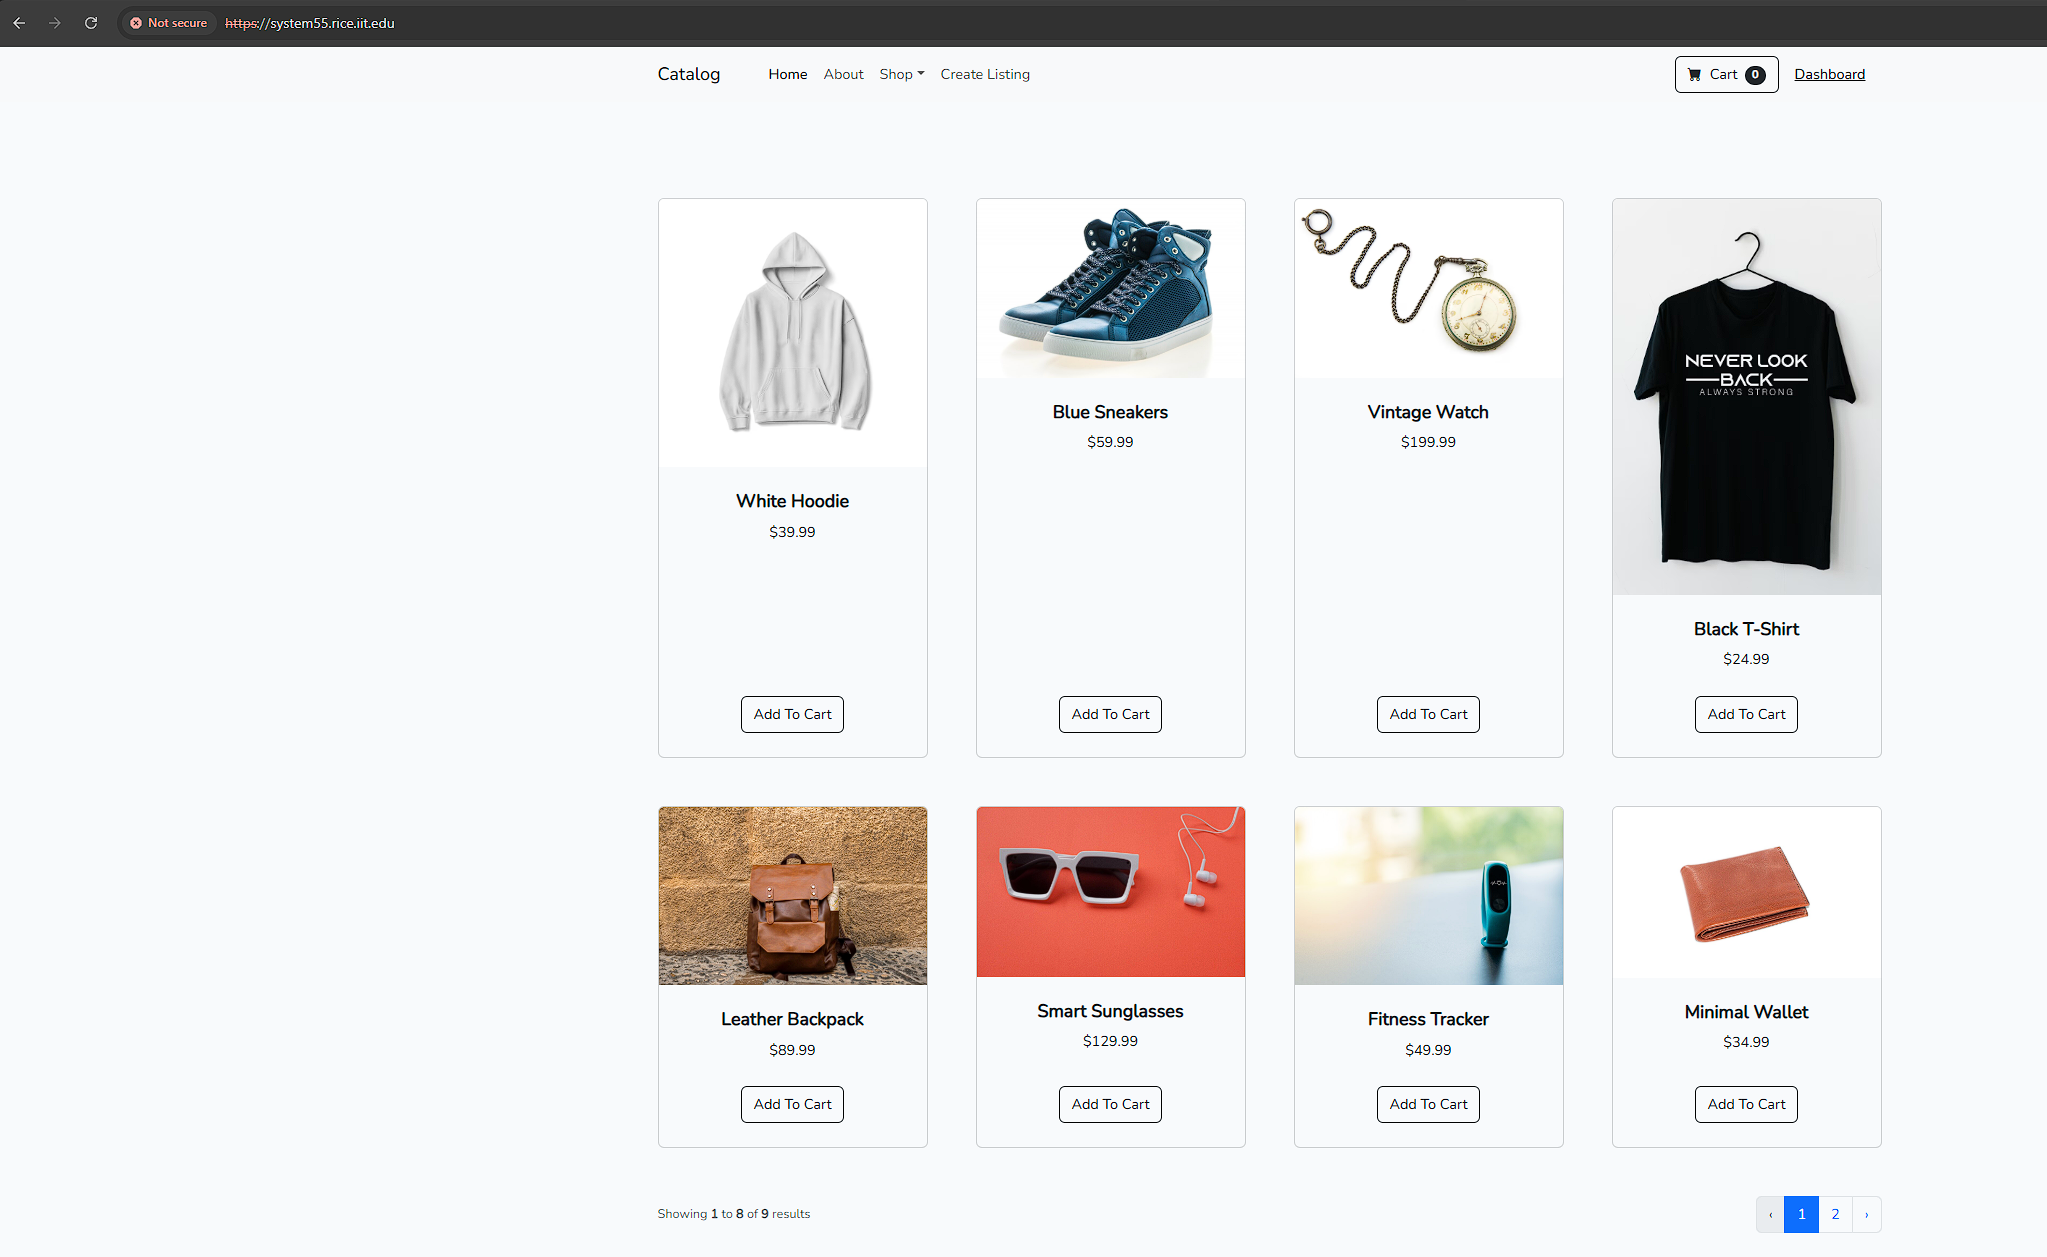
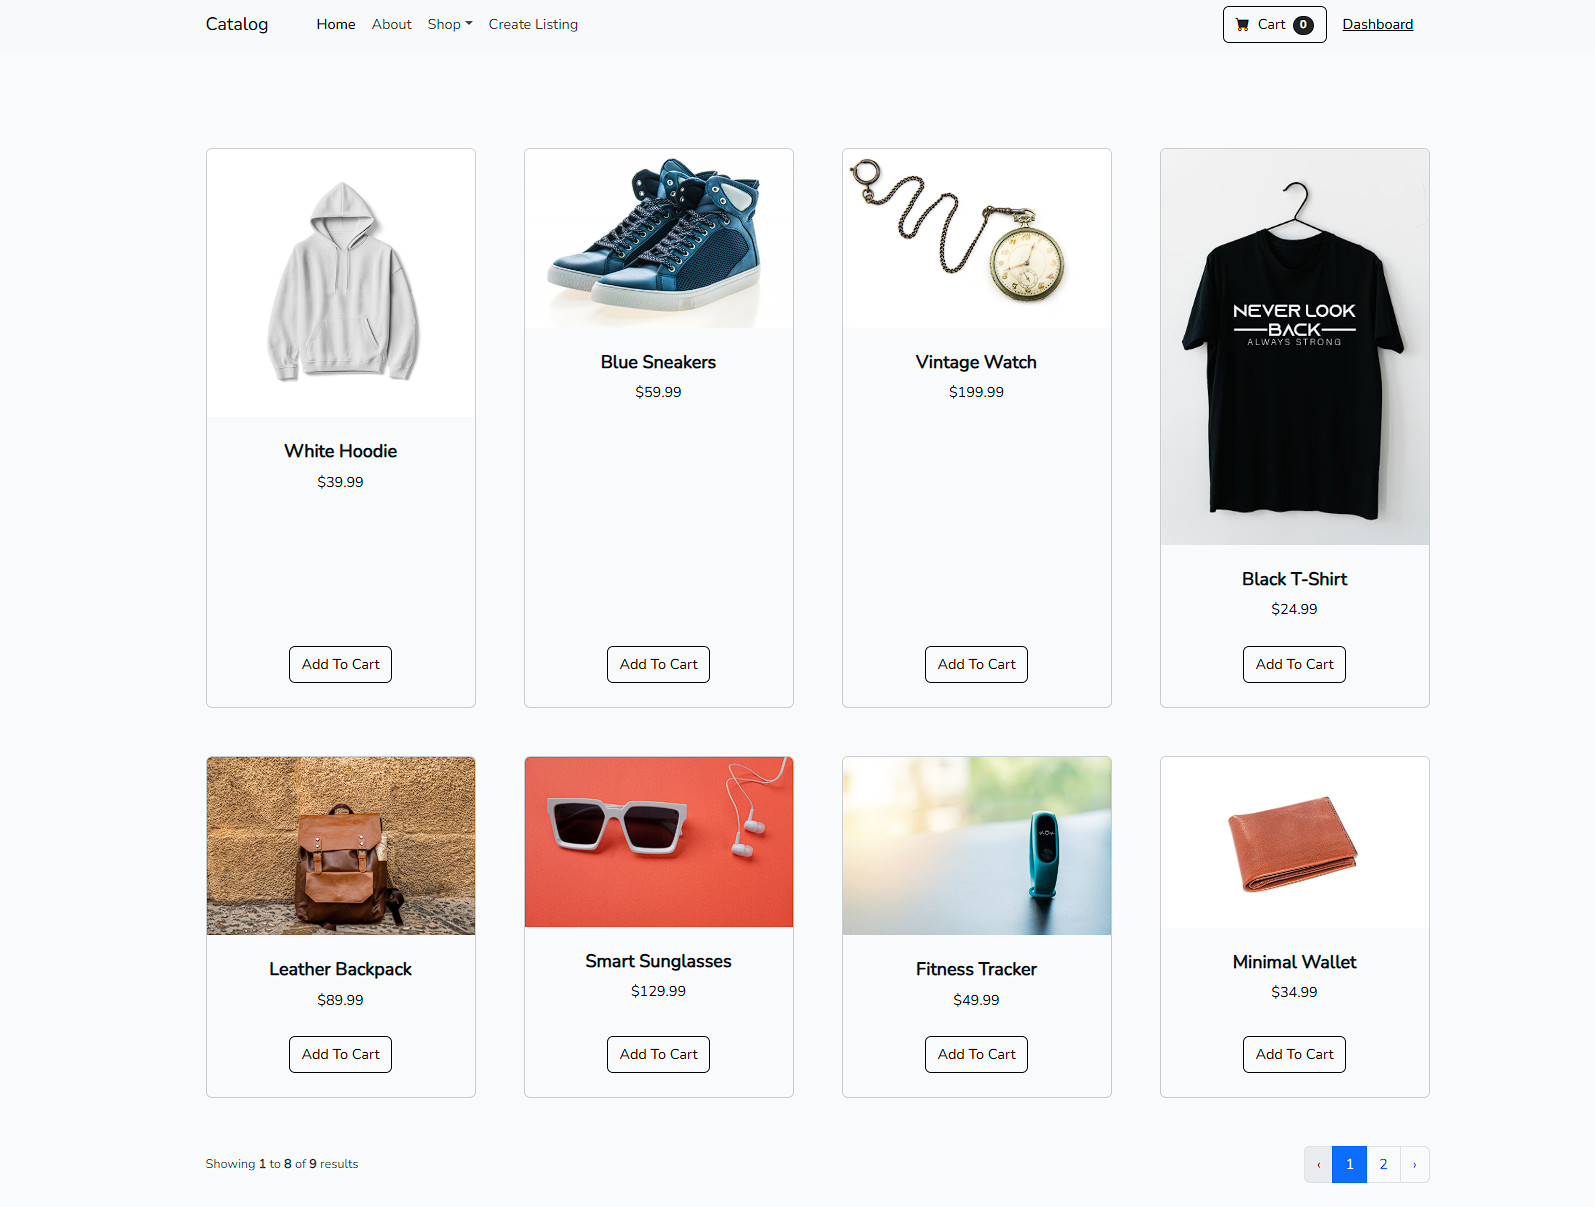
added images of swoop project to projects section of resume.

diff --git a/index.html b/index.html
@@ -27,14 +27,14 @@
     <section class="summary">
       <h2>Summary</h2>
       <p>I am an aspiring system administrator/DevOps engineer with
-      an interest in linux systems and cloud infrastructure. I have
-      experience with a wide variety of linux systems and I have
-      both deployed and built applications on them. Some of my interests 
-      include system administration, developer operations, and network
-      administration. I also have both knowledge and experience when it
-      comes to designing and implementing computer networks with 
-      multiple VLANS and subnets and can quickly and efficently plan out
-      and document an entire network. 
+         an interest in linux systems and cloud infrastructure. I have
+         experience with a wide variety of linux systems and I have
+         both deployed and built applications on them. Some of my interests 
+         include system administration, developer operations, and network
+         administration. I also have both knowledge and experience when it
+         comes to designing and implementing computer networks with 
+         multiple VLANS and subnets and can quickly and efficently plan out
+         and document an entire network. 
       </p>
     </section>
     <section class="education">
@@ -86,15 +86,31 @@
       <h2>Projects</h2>
       <h3>Swoop Marketplace</h3>
       <p>Swoop Marketplace was a 3 tier cloud native web
-      application that I helped create along with 3 other people.
-      We used the laravel framework to develop a mock marketplace
-      that users could sign in to and view items that were for
-      sale. Users who were administrators could also upload images
-      to create their own listings.</p>
-      <p>Project Link: <a href="https://github.com/illinoistech-itm/spring2025-team01" target="_blank" rel="noopener noreferrer">https://github.com/illinoistech-itm/spring2025-team01</a> </p>
+         application that I helped create along with 3 other people.
+         We used the laravel framework to develop a mock marketplace
+         that users could sign in to and view items that were for
+         sale. Users who were administrators could also upload images
+         to create their own listings.
+      </p>
+      <p>Project Link: <a href="https://github.com/illinoistech-itm/spring2025-team01" target="_blank" rel="noopener noreferrer">https://github.com/illinoistech-itm/spring2025-team01</a></p>
+      <h4>Swoop Marketplace login page</h4>
+      <img class="project-screenshots" src="images/login.jpg" alt="login page of Swoop Project."/>
+      <p>Our site featured support for Google Authentication. Users were able to login with their
+         Hawk accounts through google.
+      </p>
+      <h4>Swoop Marketplace Catalog Page</h4>
+      <img class="project-screenshots" id="catalog" src="images/catalog-images.jpg" alt="catalog page of Swoop Project."/>
+      <p>After users logged in they could browse the catalog of products that were available on the site and
+         add them to the shopping cart to simulate browsing and checking out on a real store page.
+      </p>
+      <h4>Swoop Marketplace search bar</h4>
+      <img class="project-screenshots" id="search" src="images/search-bar.jpg" alt="search bar on Swoop Project."/>
+      <p>Our catalog page also featured a search bar which users could type the name of a product. This would create a SQL
+         Query which looked for products in our database and update the site with any result that matched.
+      </p>
     </section>
     <footer class="footer">
-      <p>&copy; 2025 Maks Dudek. All Rights Reserved.</small>
+      <p>&copy; 2025 Maks Dudek. All Rights Reserved.</p>
     </footer>
   </div>
 </body>

diff --git a/styles.css b/styles.css
@@ -48,10 +48,19 @@
 .selfie {
   max-width: 50%;
   height: auto;
-  
 }
 
-h1, h2, h3 {
+.project-screenshots {
+  display: block;
+  margin: 0 auto;
+  max-width: 100%;
+}
+
+#catalog {
+  max-width: 65%;
+}
+
+h1, h2, h3, h4 {
   font-family: 'Courier New', monospace;
   font-style: normal;
   font-variant: normal;
@@ -69,6 +78,10 @@ h2 {
 
 h3 {
   font-size: 36px;
+}
+
+h4 {
+  font-size: 24px;
 }
 
 p, li {
